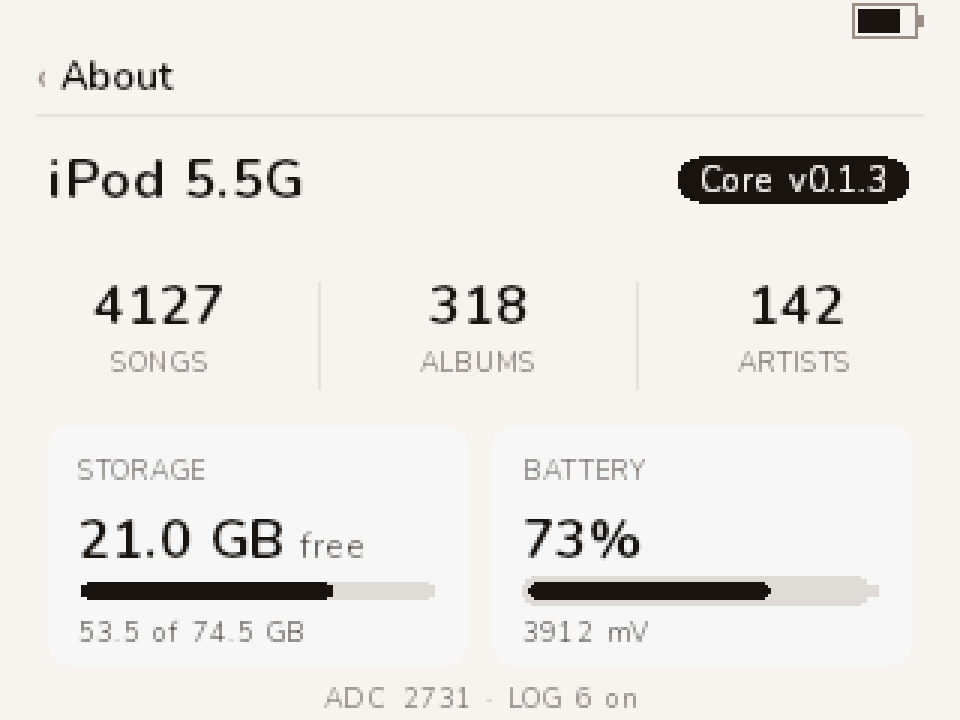
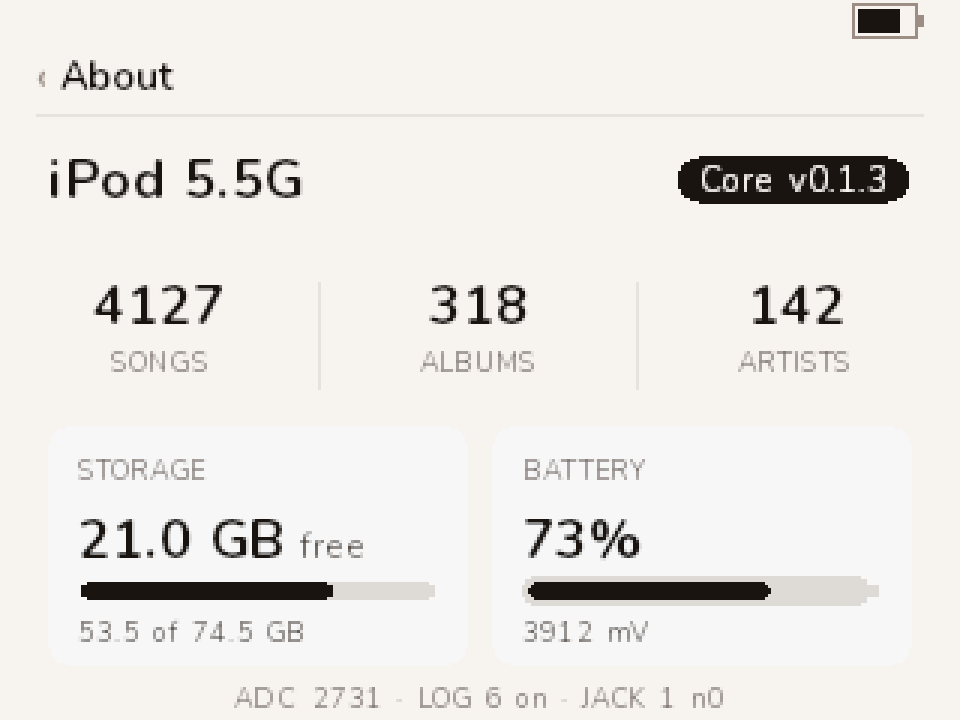
docs: the jack, the About token, and the bench that reads the pin
10-headphone-jack.md gained the procedure this device can actually run —
the About screen's JACK token, plug, unplug, read the digit — placed
before the UART probe, which stays for a bench that has a cable. The
driver section now carries the policy: the table ui/jackwatch.c encodes,
why re-inserting never resumes, where the poll sits relative to Hold and
the charging modal, the wake re-prime, the log lines and their budget,
and what a PLL park would do to the debouncer's clock. The summary
table's "Polarity: unconfirmed" row keeps its verdict and gains an empty
slot for the bench result.

The guide describes the released image, and the released image has the
feature switched off, so the Now Playing paragraph says both: what it
will do, and that it is not on yet and why sensing the pin backwards
would be worse than nothing. About's bullet and the Sleep bullet follow.

STATUS carries the UNFLASHED entry with the sixteen-step bench verbatim,
so the next device night does not have to reconstruct it.

render.py mirrors the new footer (and drops the ADC token first if it
ever overflows, the same rule the firmware uses); about.png regenerated.
Suite count 58 -> 59 in both READMEs.

Changed region(s): [[0.25, 0.9472, 0.75, 1.0]]

diff --git a/docs/screens/render.py b/docs/screens/render.py
@@ -1091,12 +1091,19 @@ def fmt_gb(mb):
 #   │ ▓▓▓▓▓▓▓▓▓░░░       │  │ [▓▓▓▓▓▓▓░░]▏       │
 #   │ 53.5 of 74.5 GB    │  │ 3912 mV            │
 #   └────────────────────┘  └────────────────────┘
-#              ADC 2731 · LOG 6 on
+#          ADC 2731 · LOG 6 on · JACK 1 n0
 AB_SONGS, AB_ALBUMS, AB_ARTISTS = 4127, 318, 142
 AB_TOTAL_MB, AB_FREE_MB = 76288, 21504          # -> "74.5 GB" total, "21.0 GB" free
 AB_BATT_PCT, AB_BATT_MV, AB_BATT_RAW = 73, 3912, 2731
 AB_LOG_SEQ, AB_LOG_ON = 6, True
 AB_LIB_TRUNCATED = False
+# The headphone jack's on-screen probe (core/ui/settings.h about_jack_t): the
+# raw detect level and how many times it has moved since power-on. The SHIPPING
+# image is what this gallery shows, so there is no debounced half and no
+# en=/oe= tail — hal_headphones_present() answers -1 while
+# HEADPHONE_DETECT_TRUSTED is 0, and the footer drops the token it has no
+# answer for. Plug seated, untouched since boot.
+AB_JACK_RAW, AB_JACK_EDGES = 1, 0
 
 AB_CARD_Y, AB_CARD_H, AB_CARD_W, AB_CARD_PAD = 142, 80, 140, 10   # 16|140|8|140|16=320
 
@@ -1163,9 +1170,13 @@ def screen_about(lib_truncated=AB_LIB_TRUNCATED):
     sc.fill_round_rect(gx + 2, gy + 2, fw2, gh - 4, 2, INK)
     sc.text(ix, AB_CARD_Y + 72, str(AB_BATT_MV) + " mV", FONT_SMALL, MUTED_D)
 
-    # --- diagnostics footer: raw ADC code + the event log sequence ---
-    v = "ADC " + str(AB_BATT_RAW) + " " + MIDDOT + " "
-    v += ("LOG " + str(AB_LOG_SEQ) + " on") if AB_LOG_ON else "LOG off"
+    # --- diagnostics footer: raw ADC code, the event log, the jack ---
+    adc = "ADC " + str(AB_BATT_RAW) + " " + MIDDOT + " "
+    log = ("LOG " + str(AB_LOG_SEQ) + " on") if AB_LOG_ON else "LOG off"
+    jk = " " + MIDDOT + " JACK " + str(AB_JACK_RAW) + " n" + str(AB_JACK_EDGES)
+    v = adc + log + jk
+    if text_width(v, FONT_SMALL) > W - 32:      # the firmware drops ADC first
+        v = log + jk
     sc.text_centered(236, v, FONT_SMALL, MUTED)
     return sc.img
 

diff --git a/core/docs/hw/10-headphone-jack.md b/core/docs/hw/10-headphone-jack.md
@@ -8,7 +8,7 @@ below with its evidence:
 |---|---|---|
 | Can the firmware sense an inline headphone button (play/pause, volume) on the 5G/5.5G? | **No.** There is no electrical path from any jack conductor to anything the SoC or the PMU can read, other than the insertion switch. | High — from Apple's own documentation plus the codec datasheet; see "Why buttons cannot work". |
 | Is the jack a plain 3-conductor TRS? | **No — it is 4-pole.** Tip/ring = L/R audio, plus ground, plus **composite video out**. The fourth conductor is an *output*, which is exactly why it is useless for buttons. | High — Apple's spec sheet. |
-| Does the jack have an insertion (plug-present) switch the firmware can read? | **Yes.** Apple's own service diagnostics test it and Apple's firmware pauses on unplug. The public iPodLinux GPIO table puts it on **GPIO port A bit 7**. | Line: medium (public wiki, cross-validated). **Polarity: unconfirmed** — see "Confirming it on the device". |
+| Does the jack have an insertion (plug-present) switch the firmware can read? | **Yes.** Apple's own service diagnostics test it and Apple's firmware pauses on unplug. The public iPodLinux GPIO table puts it on **GPIO port A bit 7**. | Line: medium (public wiki, cross-validated). **Polarity: unconfirmed** — see "Confirming it on the device". <!-- bench result: --> |
 
 Nothing in this file was derived from Rockbox source. The GPIO assignment
 comes from the iPodLinux **wiki** (documentation, GFDL), the codec facts
@@ -179,15 +179,69 @@ and it gets every one of our four known pins right under that convention.
 So the candidate is `GPIOA_INPUT_VAL` (`0x6000D030`) **bit 7** (`0x80`),
 and by the table's convention the bit reads **1 = plug seated**. The line
 is well supported; the polarity is an inference from a notation
-convention and is **not confirmed on this device** until the probe below
-has run. A wrong polarity would pause playback every time headphones are
-plugged *in*, which is why the driver ships with the feature gated off
-(`HEADPHONE_DETECT_TRUSTED` = 0 in `core/hal/hw/headphone.h`) until the
-transcript has been seen.
+convention and is **not confirmed on this device** until one of the two
+procedures below has been run. A wrong polarity would pause playback every
+time headphones are plugged *in*, which is why the driver ships with the
+feature gated off (`HEADPHONE_DETECT_TRUSTED` = 0 in
+`core/hal/hw/headphone.h`) until the reading has been taken.
 
-### Confirming it on the device (the probe)
+### Confirming it on the device (the About screen)
 
-`core/hal/hw/headphone.c` carries a compiled-out probe. Built with
+**This is the procedure this device can run**, and as of 2026-09-16 it is
+still owed: nothing below has been done on hardware yet. This device has no
+serial cable and is not getting one (the owner ruled one out on 2026-07-17),
+so the UART probe further down — the better instrument — can never run on
+it. The pin is therefore readable on the screen instead: **Settings > About**
+draws a live `JACK` token in its footer, in every build, trusted or not,
+because reading the pin is one 32-bit read of the same register the Hold
+switch is read from on every main-loop pass.
+
+The token reads `JACK <raw> n<count>`: the raw (un-debounced) level, then how
+many times that level has changed since power-on. A trusted build shows
+`JACK <raw>/<debounced>` so a bench can watch the debouncer agree. `en=0`
+and/or `oe=1` are appended when the boot ROM did **not** leave A7 as a plain
+GPIO input, which is the one case where "the level never changes" means
+something other than "wrong pin".
+
+Flash the ordinary (untrusted) image, then:
+
+1. Boot with **nothing in the jack**, no charger, Hold off. Wait for the menu.
+2. Settings > About. Read the footer's last token; write down `JACK <d>` and
+   whether it carries `en=`/`oe=`.
+3. Push the plug fully home. The token should change within a second
+   (`JACK 1 n1` expected). Write it down.
+4. Pull the plug (`JACK 0 n2`). Write it down.
+5. Repeat 3–4 twice more (`n6` at the end). Then, with the plug half in,
+   wiggle it for a few seconds: a count jumping by more than ~2 per wiggle is
+   the contact bounce the 200 ms debounce exists for (informational).
+6. Interpretation:
+   - **1 in / 0 out, the count climbing by exactly one per motion:** the
+     default polarity is right. Set `HEADPHONE_DETECT_TRUSTED` to 1 in
+     `core/hal/hw/headphone.h` and leave `HEADPHONE_DETECT_ACTIVE_LOW` at 0.
+   - **0 in / 1 out:** set `HEADPHONE_DETECT_ACTIVE_LOW` to 1 as well.
+   - **Never changes, no `en=`/`oe=`:** A7 is a GPIO input but is not the
+     jack. Leave TRUSTED at 0; the follow-up is an on-screen version of the
+     UART probe's all-ports dump (a Boot Details sub-page), not a cable.
+   - **Never changes, `en=0` or `oe=1`:** A7 is not configured as an input.
+     Leave TRUSTED at 0; the follow-up is a one-line forced-input config at
+     boot, behind its own flash — `probe_force_candidate_input()` below
+     already has the masked-write grammar for it.
+   - **Flaps with the plug untouched:** not the jack. Leave TRUSTED at 0.
+7. Every raw edge is also narrated on the UART as
+   `core: jack raw=<0|1> n=<count>`, and every byte of that is captured into
+   `CORELOG.BIN` (kernel/evlog.h). Pull the log in disk mode afterwards and
+   `tools/make_log.py --dump` it: that is the written record of steps 3–5,
+   with no cable. Budgeted at 64 lines per boot, so a plug chewed in a pocket
+   cannot fill the ring.
+
+Record the answer in the table at the top of this file, in the
+`<!-- bench result: -->` slot.
+
+### Confirming it on the device (the UART probe)
+
+For a bench that **does** have a serial cable, this is the better instrument:
+it watches all twelve ports at once, so it finds the pin even if A7 is the
+wrong guess. `core/hal/hw/headphone.c` carries it compiled out. Built with
 `-DHEADPHONE_PROBE=1` it dumps every GPIO input port to the SER0 UART
 whenever any bit changes — all twelve ports in one line, so a single
 session identifies the pin without guessing which port to watch.
@@ -264,7 +318,7 @@ Hence `GPIOA_INPUT_VAL` = `0x6000D030`, `GPIOB_INPUT_VAL` = `0x6000D034`,
 
 `hal_headphones_present()` (hal.h) returns the **debounced** plug state:
 1 seated, 0 absent, or -1 while the line is untrusted (the default until
-the transcript above has been seen) — a caller must treat -1 as "do
+one of the procedures above has been run) — a caller must treat -1 as "do
 nothing", never as "unplugged".
 
 Debounce: a new raw level must hold continuously for **200 ms** before it
@@ -281,6 +335,51 @@ pocket.
 The first sample primes the state without waiting, so a device booted with
 headphones in reads "present" immediately and never reports a phantom
 unplug at start-up.
+
+### The policy
+
+The HAL owns the debounce; `core/ui/jackwatch.c` owns the decision, and
+nothing else does. It is fed one debounced level per main-loop pass together
+with whether the transport is playing, and it is pure — no clock, no
+hardware, no screen state — so `core/tests/ui/jackwatch_test.c` pins every
+row of it on the host:
+
+| believed | new level | playing | result |
+|---|---|---|---|
+| any | -1 | any | nothing; -1 is "no answer", never a level, and never primes |
+| unknown | 0 or 1 | any | prime only — a boot with an empty jack is not a pull-out |
+| seated | absent | yes | **pause**, once |
+| seated | absent | no | nothing (already paused, or nothing loaded) |
+| absent | seated | any | nothing: re-inserting NEVER resumes |
+
+The one-directionality is deliberate. The insertion switch closes before the
+audio contacts seat, so resuming on that edge would start playing into a
+half-made connection at whatever the volume happened to be, while the user
+still has hold of the plug. Every reference player waits for Play.
+
+The poll sits outside `kernel/main.c`'s Hold-locked branch and above the
+charging modal, so neither the lock switch nor a modal can swallow a yank in
+a pocket; ≤10 ms of loop period against a 200 ms window is ~20 samples per
+window, and 100 ms during a suspend is still two.
+
+**Wake.** The main loop is not running during a suspend, so the wake path
+re-primes the module from the current debounced answer before it decides
+whether to resume (`jackwatch_prime()`: new believed level, no action). That
+is what keeps a plug pulled while the device slept from reading as a fresh
+edge on the first pass back and pausing a player the wake had deliberately
+left paused. A plug pulled and re-inserted during the sleep leaves it paused
+as well — no auto-resume, even there.
+
+**The log.** Debounced edges print `core: jack in` / `core: jack out` /
+`core: jack out, pause`, at most one per genuine transition. Raw edges print
+`core: jack raw=<0|1> n=<count>`, budgeted at 64 lines per boot. All of it
+lands in `CORELOG.BIN` through the evlog tap.
+
+**USEC_TIMER during a PLL park.** The debouncer times on USEC_TIMER. If
+`SUSPEND_PARK_PLL` (default 0) is ever enabled and that counter slows or
+stops, a candidate started before the park is accepted early or late. The
+wake re-prime takes the *current* answer and the debouncer's first-sample
+rule means the worst case is one 200 ms delay, not a wrong level.
 
 ## Sources
 

diff --git a/STATUS.md b/STATUS.md
@@ -3,6 +3,80 @@
 The README is the canonical public story; this doc is the running list of
 what works, what doesn't, and what to pick up next.
 
+## 2026-09-16 — UNFLASHED
+
+- **Pause on headphone unplug — the policy, and a probe that needs no cable.**
+  The pause decision moved out of `kernel/main.c` (five untested inline lines
+  over a file-scope `g_hp_last`) into `ui/jackwatch.c`, a pure module with its
+  own host suite — the same extraction `ui/keyhold.c` got. It closes a real
+  hole: the suspend path never updated `g_hp_last`, so a plug pulled while the
+  device slept left the first pass back looking at an edge the wake had already
+  accounted for. The wake now re-primes the module from the live level with no
+  action. main.c keeps the wiring only: sample, act, narrate.
+
+  **The feature ships INERT.** `HEADPHONE_DETECT_TRUSTED` is still 0, so
+  `hal_headphones_present()` answers -1 with no bus traffic and the module
+  never sees an edge. What is live in this image is the *probe*: Settings >
+  About's footer now reads `ADC 2731 · LOG 6 on · JACK 1 n0` — the raw A7
+  level and how many times it has moved since power-on (plus `en=0`/`oe=1` if
+  the boot ROM did not leave A7 a GPIO input, and `/1` for the debounced level
+  once trusted). Reading it is one 32-bit read of the register the Hold switch
+  is already read from, so it costs nothing and is drawn in every build. Every
+  edge is also narrated to the UART, which means `CORELOG.BIN`; raw lines are
+  budgeted at 64 per boot.
+
+  Why on screen: the only probe that existed prints to SER0, and this device
+  has no serial cable (ruled out 2026-07-17), so the pin's polarity was
+  unreadable. Now it is a digit on the About page.
+
+  Also: `headphone_pin_cfg()` (two reads, no writes, trace-tested in both
+  non-probe binaries); `tests/meson.build` spells out
+  `-DHEADPHONE_DETECT_TRUSTED=0` for `hw-headphone-untrusted` so flipping the
+  header default at the bench cannot silently turn it into a second trusted
+  binary; 58 → 59 host suites. `make sim && meson test -C build-sim` green
+  (also green with the header set to TRUSTED 1), `make hw && make verify-hw`
+  clean under gcc-16 `-Werror` (also with TRUSTED 1).
+
+  **Nothing here was run on the device.** `kernel/main.c` is not host-built, so
+  its wiring is covered by the module's tests plus the bench below — and every
+  "on device" line is owed. The bench, in order:
+
+  *Flash 1 — read the pin (the default image, TRUSTED 0):*
+  1. Boot with **nothing in the jack**, no charger, Hold off; wait for the menu.
+  2. Settings > About. Write down the footer's `JACK <d>` and whether it shows
+     `en=`/`oe=`. Any `en=0`/`oe=1` means A7 is not a GPIO input — stop at 6.
+  3. Push the plug fully home; the token should change within a second
+     (`JACK 1 n1`). Write it down.
+  4. Pull it (`JACK 0 n2`). Write it down.
+  5. Repeat 3–4 twice more (`n6`). Then wiggle a half-inserted plug for a few
+     seconds and note the count (bounce; informational).
+  6. Interpret: 1 in / 0 out and one count per motion → set
+     `HEADPHONE_DETECT_TRUSTED` 1, leave `ACTIVE_LOW` 0. 0 in / 1 out → also
+     set `HEADPHONE_DETECT_ACTIVE_LOW` 1. Never changes with no `en=`/`oe=` →
+     wrong pin, leave TRUSTED 0 (follow-up: an on-screen all-ports dump).
+     Never changes with `en=0`/`oe=1` → follow-up is a forced-input config at
+     boot, its own flash. Flaps untouched → not the jack, leave TRUSTED 0.
+  7. Pull `CORELOG.BIN` in disk mode and `tools/make_log.py --dump` it: the
+     `core: jack raw=… n=…` lines are the written record of steps 3–5.
+
+  *Flash 2 — the feature (after that two-line edit):*
+  8. `make sim && meson test -C build-sim`, `make hw && make verify-hw`, flash.
+  9. Play a track, pull the plug: pauses within ~0.3 s, strip says Paused,
+     About reads `JACK 0/0`. Re-insert: still paused. PLAY: resumes.
+  10. Pause with PLAY, pull, re-insert: nothing either way.
+  11. Hold on, playing, pull: pauses. Hold off, PLAY: resumes.
+  12. Charger in (charging modal up), playing, pull the headphones: pauses.
+  13. Power-cycle with the jack **empty**, Resume on: boots paused as always,
+      and no `core: jack out` line in the log for that boot.
+  14. Playing with the plug in, hold PLAY 2 s (sleep), pull the plug while
+      asleep, press a button: wakes paused, no resume. Re-insert, PLAY: plays.
+  15. Playing, plug in, sleep, wake without touching the plug: resumes
+      (unchanged).
+  16. Dump `CORELOG.BIN`: `core: jack out, pause` / `core: jack in` at each step.
+
+  Paste the results here and fill the `<!-- bench result: -->` slot in
+  `core/docs/hw/10-headphone-jack.md`'s summary table.
+
 ## 2026-09-13 — issue sweep landed on `main`, NOT yet flashed
 
 Six read-only audits over the whole tree, then six fix branches merged;

diff --git a/docs/USER_GUIDE.md b/docs/USER_GUIDE.md
@@ -111,6 +111,13 @@ band.
 **When a track ends** while you are browsing, the name in the status strip changes. Nothing pops
 up.
 
+**Headphones.** Pull the plug while a track plays and it pauses; plugging back in does not start
+it again — press Play. Nothing on the cable can control playback: this iPod's jack has no button
+line, and its fourth conductor is a video output, not a remote. *Not switched on in this release.*
+The pin that senses the plug is documented but has never been read on a real device, and sensing
+it backwards would stop the music every time you plugged headphones **in** — so it stays off until
+the reading is taken. Settings, About shows the pin live (`JACK`) for exactly that purpose.
+
 ## Settings
 
 <table>
@@ -137,7 +144,9 @@ never makes you wait.
   Brightness: 1 to 32, shown as a percentage.
 - **Clicker.** The click the wheel makes: Off, Tick, Click, Pop, Blip, Tock, Double, Chirp.
 - **About.** The firmware version, model, song, album and artist counts, storage free, battery
-  percentage and voltage, and the event log's state.
+  percentage and voltage, the event log's state, and the headphone jack's switch — `JACK 1` when a
+  plug is seated, `JACK 0` when it is not, followed by `n` and the number of times it has changed
+  since power-on.
 - **Boot Details.** The full build string, how long the last cold boot took and where it went
   (LCD, disk, library, resume, other), the FLAC decode cost against real time, audio underruns,
   and the disk addresses of the settings file and the log. Reading it never wakes a sleeping drive.
@@ -328,7 +337,9 @@ voltage on the About page is steadier.
   parks while paused too. It spins up again when the next read needs it; a resume over a parked
   drive spins it up before the music starts.
 - **Sleep.** Hold Play two seconds. Playback pauses and the position is saved, the drive parks, the
-  screen and backlight go off, the codec powers down. Any button wakes it back where it was.
+  screen and backlight go off, the codec powers down. Any button wakes it back where it was. (Once
+  jack sensing is switched on — see Now Playing — headphones pulled out during the sleep make it
+  wake paused instead of resuming.)
 - **Power off.** Hold Play past five seconds, or leave a sleeping device on battery for thirty
   minutes: it powers itself off. The next press cold boots; with Resume on you come back on the
   same track, paused.

diff --git a/core/README.md b/core/README.md
@@ -67,7 +67,7 @@ make sim        # configures + builds the HOST TEST SUITE (see note below)
 make verify-hw  # static checks against a fresh `make hw` (see below)
 make help       # all targets
 
-meson test -C build-sim     # 58 host unit + MMIO golden-trace suites
+meson test -C build-sim     # 59 host unit + MMIO golden-trace suites
 ```
 
 `make verify-hw` is the static half of the safety net — the checks that

diff --git a/README.md b/README.md
@@ -145,7 +145,7 @@ and newlib for the device.
 cd core
 make hw                        # build-hw/core.elf, core.bin
 make ipod                      # build-hw/core.ipod
-make sim && meson test -C build-sim   # host tests, 58 suites
+make sim && meson test -C build-sim   # host tests, 59 suites
 make verify-hw                 # layout, header/doc and size checks on the ARM image
 ```
 
